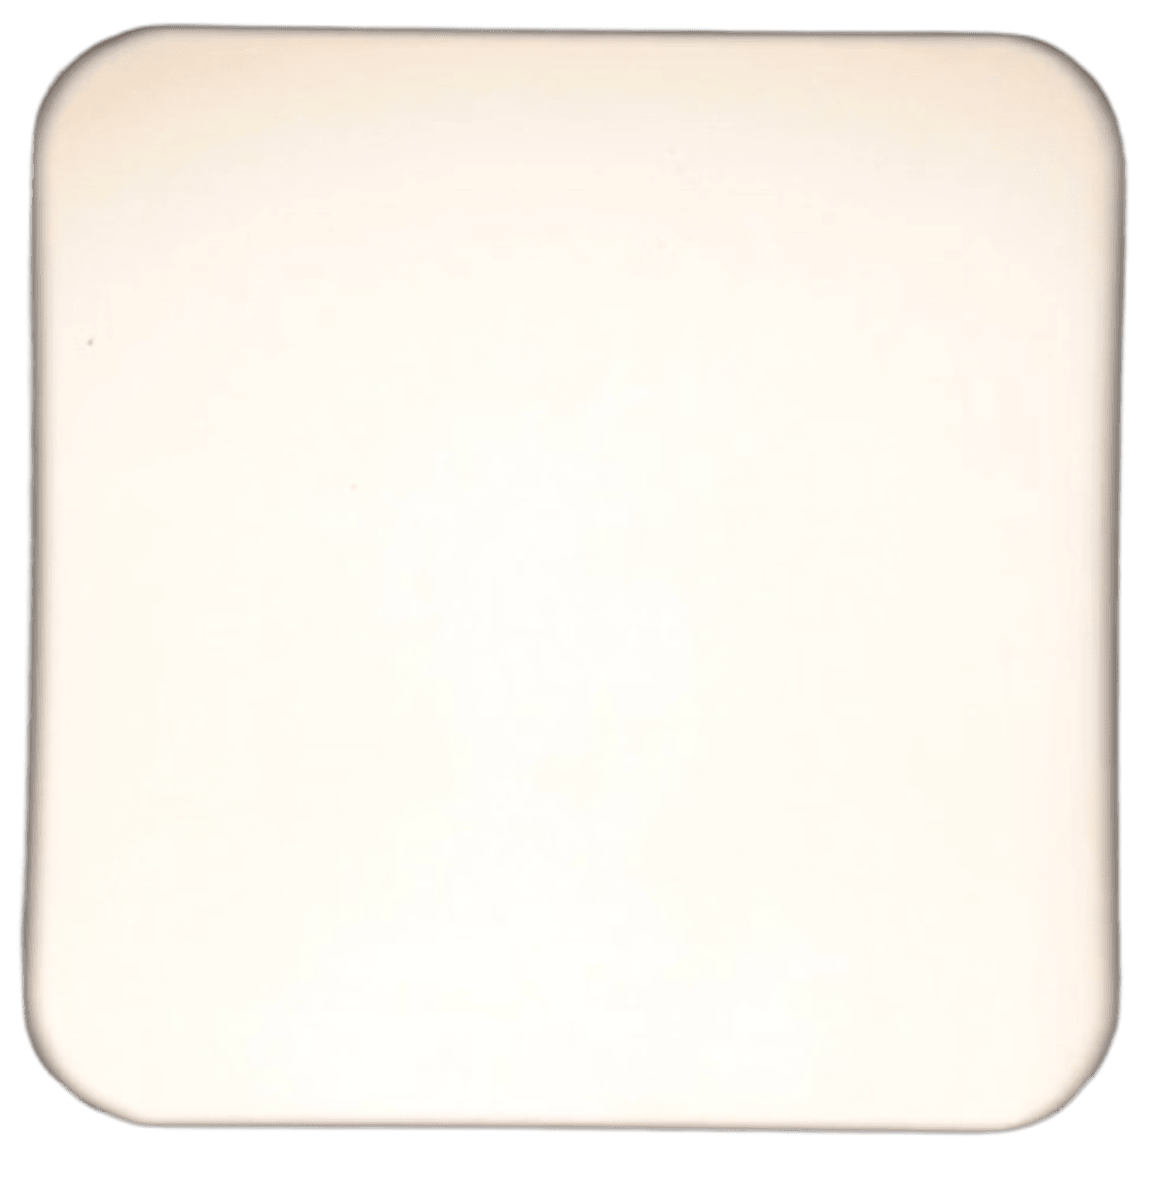
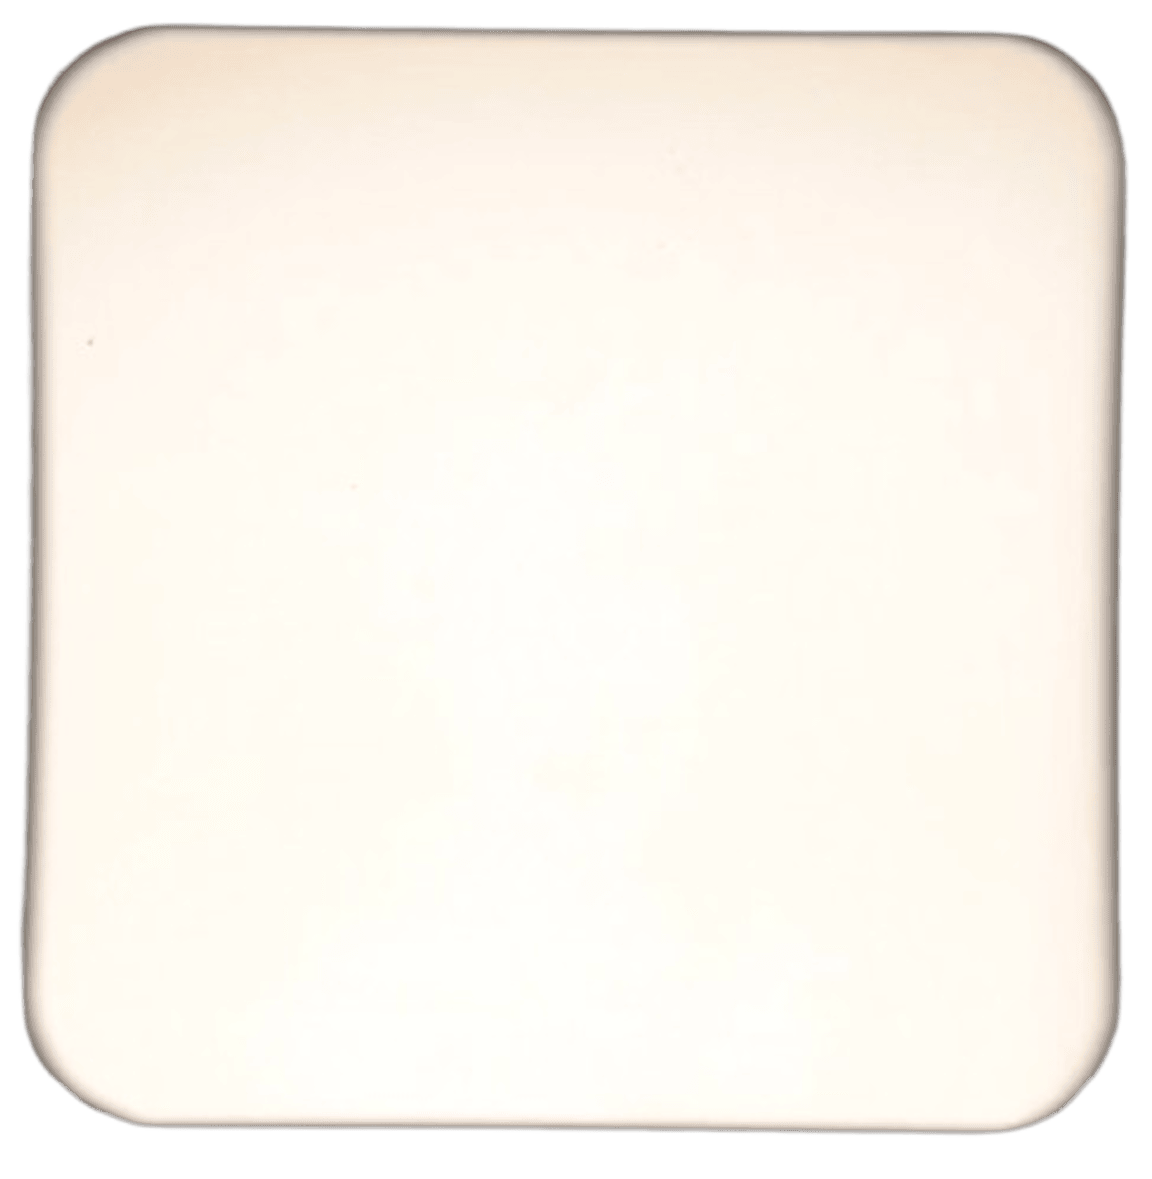
Changed arrow distance

Changed region(s): [[0.875, 0.0305, 1.0, 0.916], [0.9062, 0.916, 0.9375, 0.9466], [0.875, 0.9466, 0.9062, 0.9771]]

diff --git a/styles.css b/styles.css
@@ -121,7 +121,7 @@ body {
 
 .arrow {
     --horizontal-padding: 1vw;
-    --distance: calc(0.4 * var(--arrow-padding));
+    --distance: calc(0.2 * var(--arrow-padding));
 
     -webkit-tap-highlight-color: transparent; /* Prevent tap highlight on iOS */
     -webkit-touch-callout: none;
